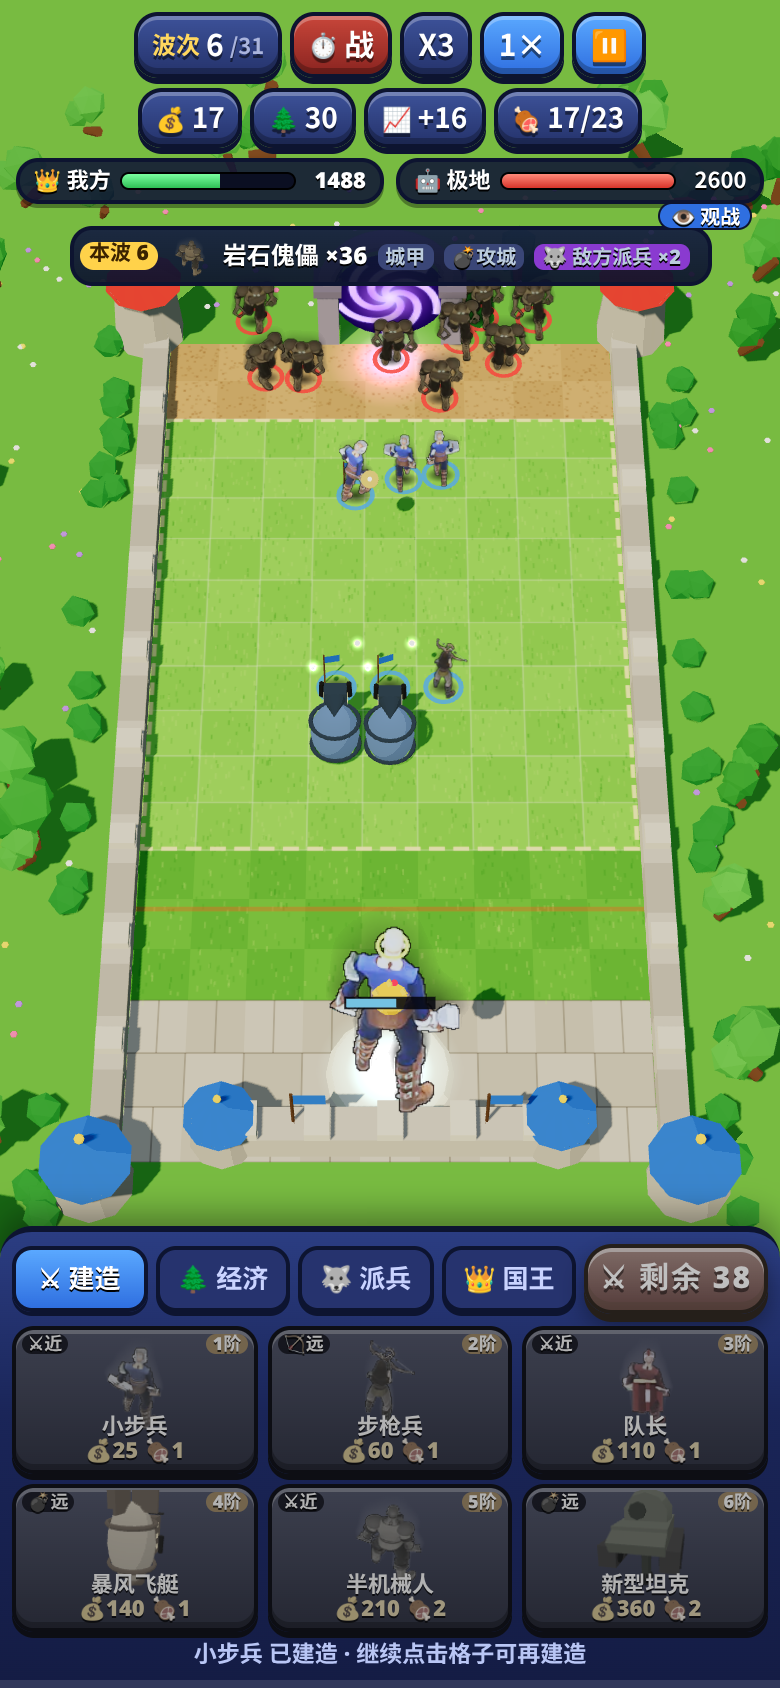
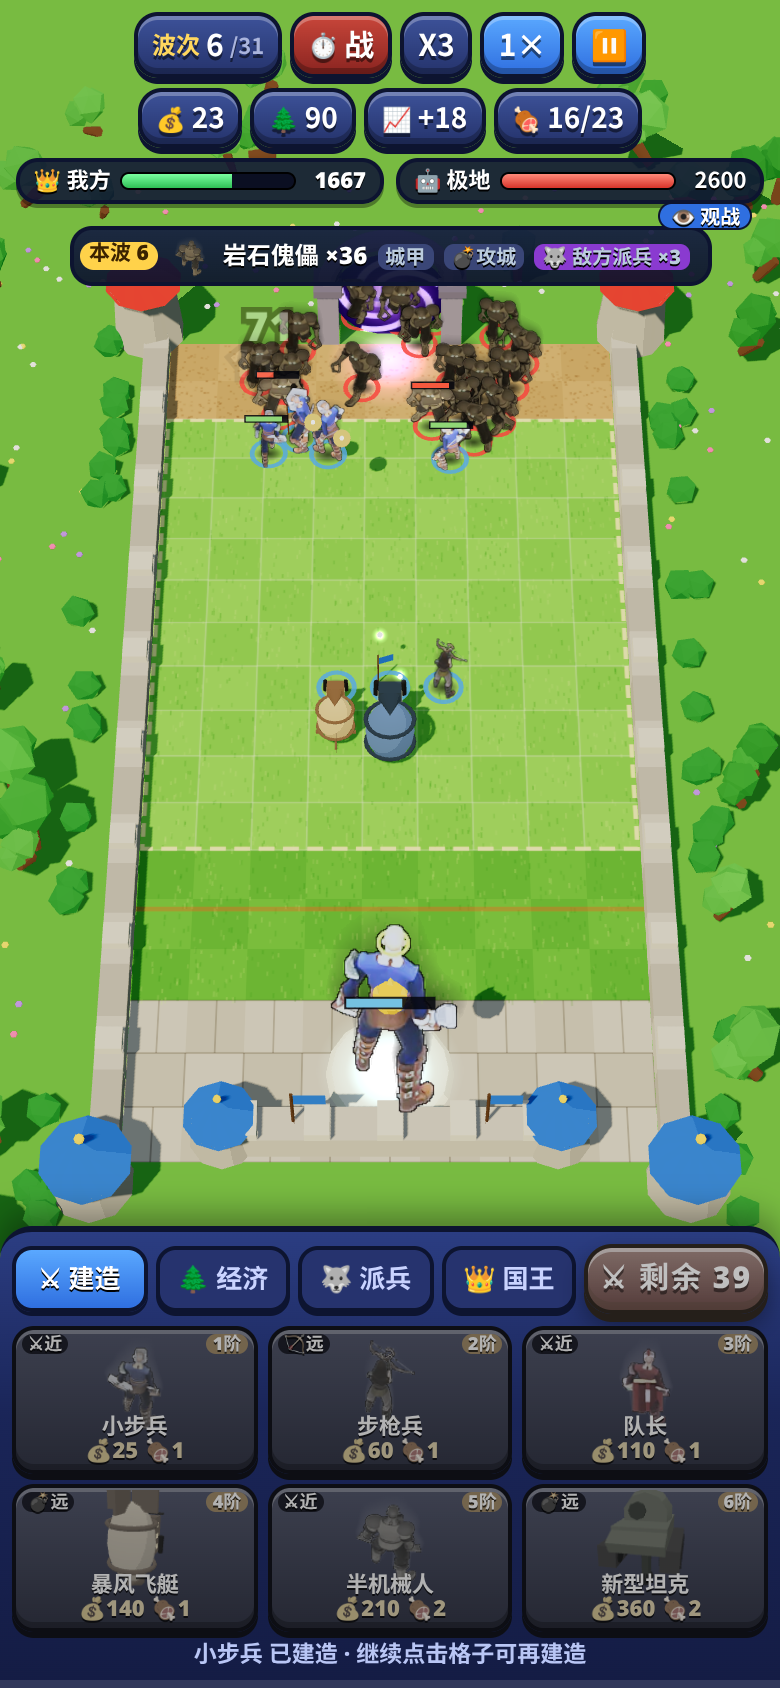
AI: hold wisp purchases until army ≈ recommended value in early waves

diff --git a/lt_core.js b/lt_core.js
@@ -322,7 +322,7 @@ const AI={think(g,p,dt){const A=g.ai||(g.ai=[{cd:0,w:-1},{cd:0,w:-1}]);const s=A
     if(P.lumber-keep>=80&&L.king.hp<L.king.maxHp*0.7){const k=['hp','regen','attack'][Math.floor(R()*3)];const r=kingUpgrade(g,p,k);if(r.ok)return r;}
     if(g.wave>=3&&P.lumber-keep>=40&&R()<0.6){const opts=D.summons.filter(x=>x.lumber<=P.lumber-keep&&P.stock[x.id].n>0);if(opts.length){const t=opts[Math.max(0,opts.length-1-Math.floor(R()*2))];return sendSummon(g,p,t.id);}}
     if(!bt)return;
-    const wispGoal=Math.min(ECO.wispMax,3+g.wave);const need=rec*0.7;
+    const wispGoal=Math.min(ECO.wispMax,3+g.wave);const need=rec*(g.wave<6?0.92:0.7);
     if(P.value>=need&&P.wisps<wispGoal&&P.gold>=ECO.wispGold&&foodFree>=1)return buyWisp(g,p);
     if(P.value>=rec*0.85&&P.lj<15&&P.wisps>=5&&g.wave>=4){const c=ljCost(P.lj+1);if(P.gold>=c.g&&P.lumber>=c.l+keep&&R()<0.5)return buyLumberjack(g,p);}
     const lines=raceLines(g,p);
